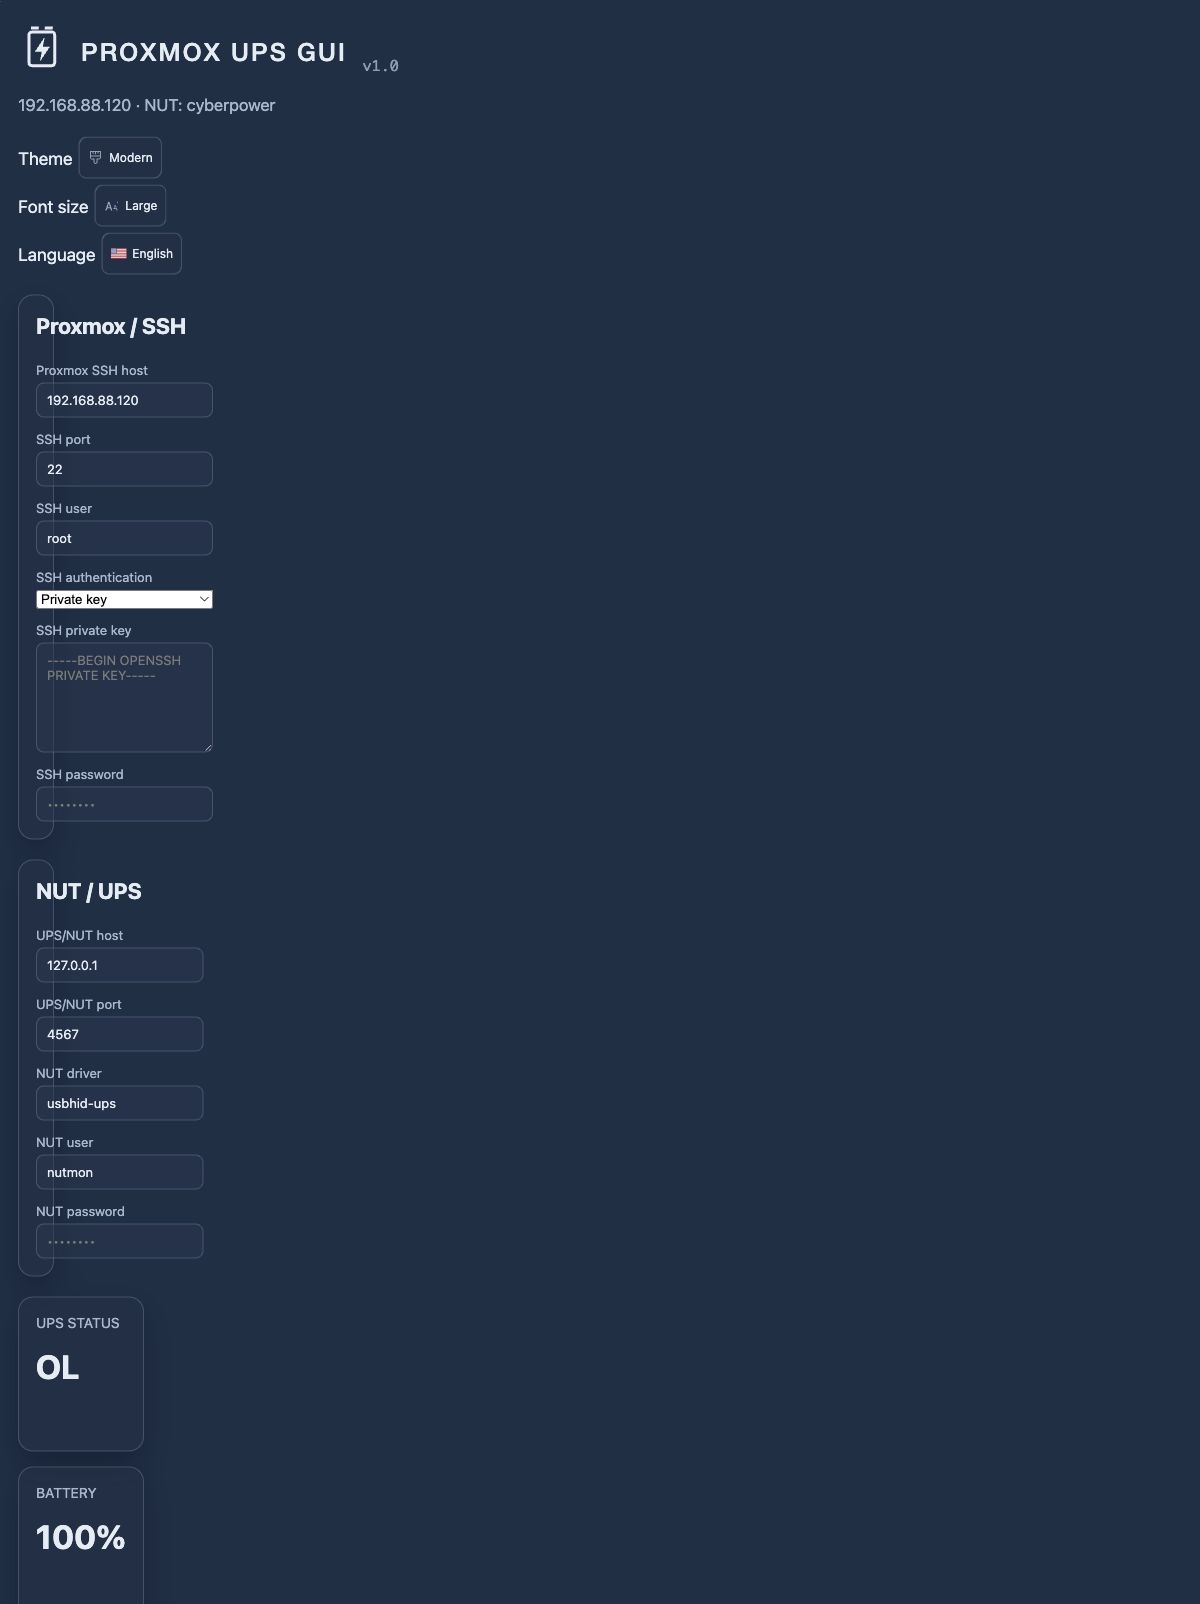
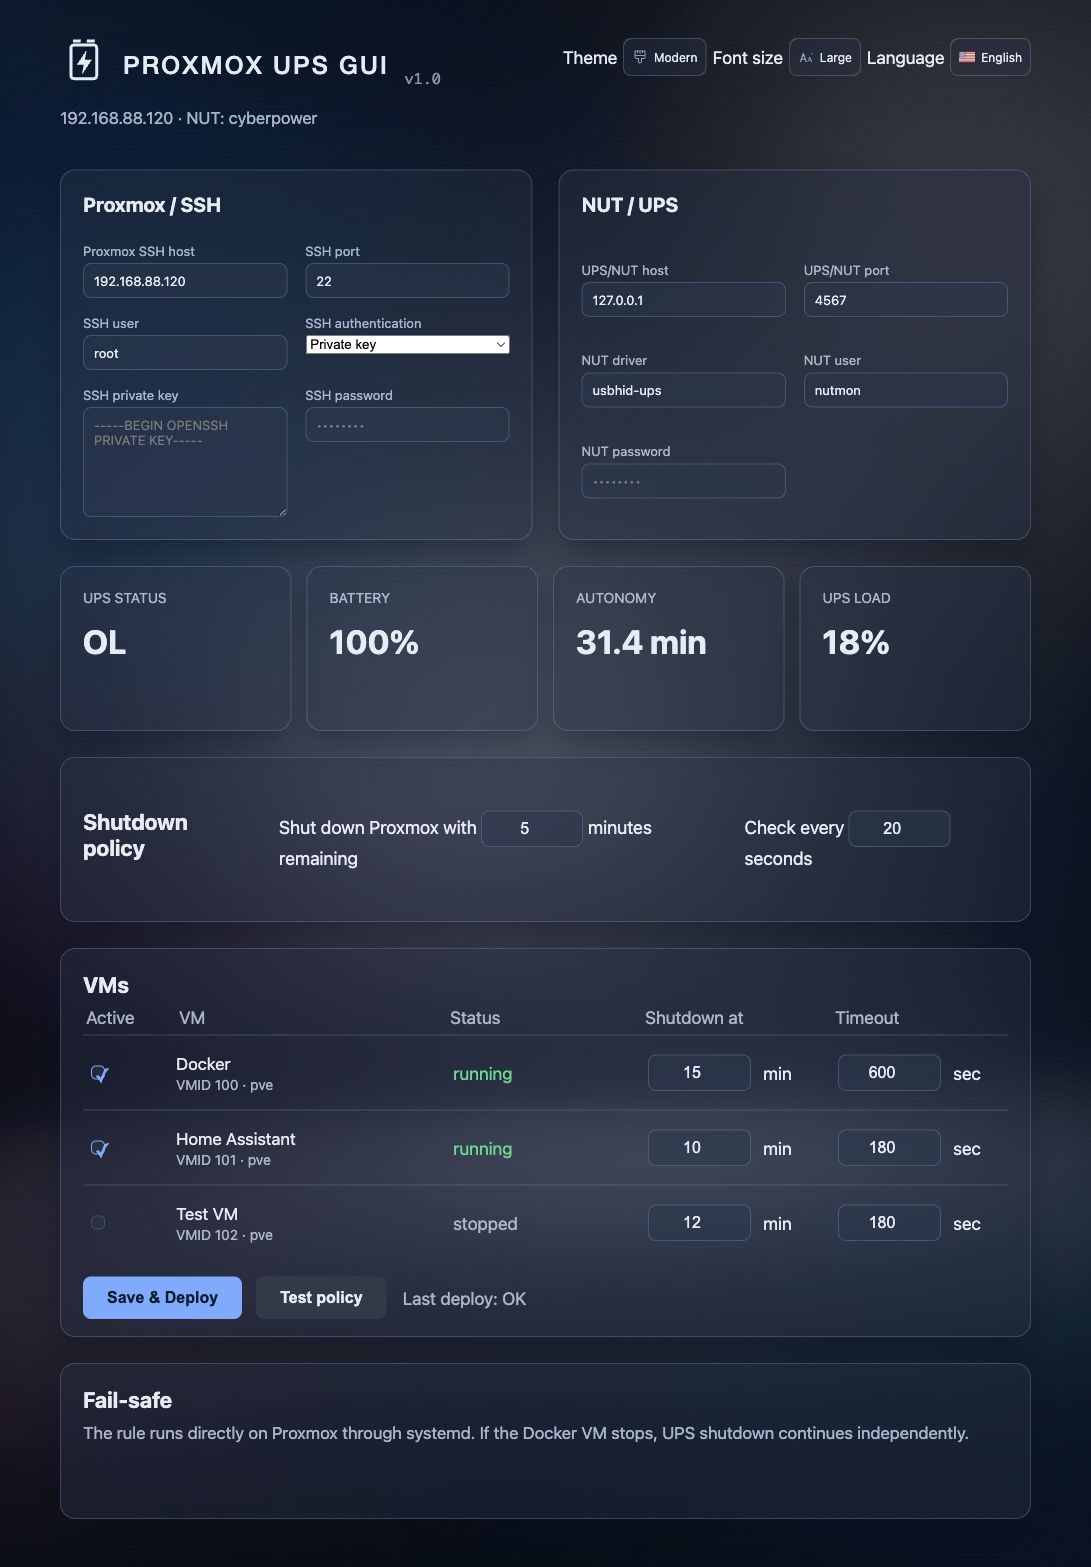
Improve live UPS dashboard spacing

diff --git a/templates/index.html b/templates/index.html
@@ -7,11 +7,26 @@
   <style>
     :root{--ups-accent:#73a7ff;--ups-green:#35d98b}.dashboard-container{max-width:1340px;margin:0 auto;padding:30px 52px 40px}.section{margin-top:20px}.ups-card{background:var(--card);border:1px solid var(--border);border-radius:15px;padding:17px;box-shadow:var(--glass-shadow,var(--shadow))}.ups-connection{display:grid;grid-template-columns:repeat(4,1fr);gap:14px}.ups-connection h2{grid-column:1/-1}.ups-connection label{display:flex;flex-direction:column;gap:5px;color:var(--muted);font-size:13px}.ups-connection input,.ups-connection textarea{background:var(--card-strong);border:1px solid var(--border);border-radius:8px;color:var(--text);padding:9px 10px;font:inherit}.ups-connection textarea{min-height:90px;resize:vertical}.ups-stats{display:grid;grid-template-columns:repeat(4,1fr);gap:15px}.ups-stat{height:119px}.ups-label{font-size:14px;color:var(--muted);text-transform:uppercase}.ups-value{font-size:33px;font-weight:700;margin-top:16px}.ups-policy{display:flex;align-items:center;gap:34px;min-height:119px}.ups-policy h2{margin-right:auto}.ups-policy p{margin:0;font-size:18px}.ups-input{width:76px;background:var(--card-strong);border:1px solid var(--border);border-radius:8px;color:var(--text);font-size:16px;padding:8px 12px;text-align:center}.ups-vm-card{padding:16px 17px 12px}.ups-card h2{font-size:22px;margin:0 0 10px}.ups-table-head,.ups-vm-row{display:grid;grid-template-columns:78px 1.6fr 180px 175px 170px;gap:15px;align-items:center}.ups-table-head{color:var(--muted);padding:0 3px 7px;border-bottom:1px solid var(--table-border,var(--border))}.ups-vm-row{min-height:74px;border-bottom:1px solid var(--table-border,var(--border))}.ups-vm-row:last-of-type{border-bottom:0}.ups-vm-name{font-size:17px}.ups-vm-meta{color:var(--muted);font-size:14px;margin-top:3px}.ups-status.running{color:var(--ups-green)}.ups-status.stopped{color:var(--muted)}.ups-check{appearance:none;width:22px;height:22px;border:1px solid #3d4655;border-radius:5px;background:var(--card-strong);position:relative;margin-left:8px}.ups-check:checked{border-color:var(--ups-accent)}.ups-check:checked:after{content:"✓";position:absolute;color:var(--ups-accent);font-size:20px;left:3px;top:-3px}.ups-field{display:flex;align-items:center;gap:12px}.ups-field .ups-input{width:77px}.ups-actions{display:flex;align-items:center;gap:14px;padding-top:17px}.ups-actions button{border:0;border-radius:8px;padding:12px 24px;font-size:16px;font-weight:700;cursor:pointer;background:#27303f;color:var(--text)}.ups-actions button.primary{background:var(--ups-accent);color:#071426}.ups-actions button:disabled{opacity:.6;cursor:wait}.ups-result{color:var(--muted);margin-left:2px}.ups-notice{min-height:94px}.ups-notice p{color:var(--muted);font-size:17px;margin:0}@media(max-width:900px){.dashboard-container{padding:24px 18px}.ups-connection,.ups-stats{grid-template-columns:repeat(2,1fr)}.ups-table-head{display:none}.ups-vm-row{grid-template-columns:42px 1fr 130px 140px;gap:8px}.ups-vm-row>.timeout{grid-column:3}.ups-vm-row>.ups-status{grid-column:2}.ups-policy{flex-wrap:wrap;gap:14px}}@media(max-width:600px){.ups-connection,.ups-stats{grid-template-columns:1fr}.ups-vm-row{grid-template-columns:32px 1fr}.ups-vm-row>.ups-status,.ups-vm-row>.schedule,.ups-vm-row>.timeout{grid-column:2}.ups-actions{flex-wrap:wrap}}
   </style>
+  <style>
+    body.ups-app{max-width:none;margin:0 auto;padding:38px 60px 48px;box-sizing:border-box;overflow-x:hidden}
+    body.ups-app .ups-connections{display:grid;grid-template-columns:repeat(2,minmax(0,1fr));gap:26px;margin-top:30px}
+    body.ups-app .ups-connections .ups-section{margin-top:0}
+    body.ups-app .ups-card{padding:22px}
+    body.ups-app .ups-connection{min-width:0;grid-template-columns:repeat(2,minmax(0,1fr));gap:17px 18px}
+    body.ups-app .ups-connection h2{font-size:20px}
+    body.ups-app .ups-connection textarea{grid-column:1/-1}
+    body.ups-app > .ups-section{margin-top:26px}
+    body.ups-app .ups-stats{margin-top:26px}
+    body.ups-app .ups-vm-card{padding:22px 22px 17px}
+    body.ups-app .ups-notice{min-height:110px}
+    @media(max-width:900px){body.ups-app{padding:28px 18px 36px}body.ups-app .ups-connections{grid-template-columns:1fr;gap:20px}body.ups-app .ups-connection{gap:14px}}
+  </style>
 </head>
-<body class="dashboard-container">
+<body class="ups-app">
   <header class="topbar" data-mikrotik-header-root data-brand="nut" data-brand-text="Proxmox UPS GUI" data-brand-version="v1.0" data-subtitle="192.168.88.120 · NUT: cyberpower"></header>
 
-  <section class="ups-card ups-connection section">
+  <div class="ups-connections">
+  <section class="ups-card ups-connection ups-section">
     <h2 data-i18n="proxmoxConnection">Proxmox / SSH</h2>
     <label><span data-i18n="sshHost">Proxmox SSH host</span><input id="ssh-host" value="192.168.88.120"></label>
     <label><span data-i18n="sshPort">SSH port</span><input id="ssh-port" type="number" min="1" max="65535" value="22"></label>
@@ -21,7 +36,7 @@
     <label><span data-i18n="sshPassword">SSH password</span><input id="ssh-password" type="password" autocomplete="new-password" placeholder="••••••••"></label>
   </section>
 
-  <section class="ups-card ups-connection section">
+  <section class="ups-card ups-connection ups-section">
     <h2 data-i18n="nutConnection">NUT / UPS</h2>
     <label><span data-i18n="upsHost">UPS/NUT host</span><input id="ups-host" value="127.0.0.1"></label>
     <label><span data-i18n="upsPort">UPS/NUT port</span><input id="ups-port" type="number" min="1" max="65535" value="3493"></label>
@@ -29,11 +44,12 @@
     <label><span data-i18n="nutUser">NUT user</span><input id="nut-user" value="nutmon"></label>
     <label><span data-i18n="nutPassword">NUT password</span><input id="nut-password" type="password" autocomplete="new-password" placeholder="••••••••"></label>
   </section>
+  </div>
 
-  <section class="ups-stats section"><div class="ups-card ups-stat"><div class="ups-label" data-i18n="upsStatus">UPS status</div><div class="ups-value">OL</div></div><div class="ups-card ups-stat"><div class="ups-label" data-i18n="battery">Battery</div><div class="ups-value">100%</div></div><div class="ups-card ups-stat"><div class="ups-label" data-i18n="autonomy">Autonomy</div><div class="ups-value">31.4 min</div></div><div class="ups-card ups-stat"><div class="ups-label" data-i18n="loadUps">UPS load</div><div class="ups-value">18%</div></div></section>
-  <section class="ups-card ups-policy section"><h2 data-i18n="shutdownPolicy">Shutdown policy</h2><p><span data-i18n="shutdownWith">Shut down Proxmox with</span> <input class="ups-input" id="battery-minutes" type="number" min="0" value="5"> <span data-i18n="minutesRemaining">minutes remaining</span></p><p><span data-i18n="checkEvery">Check every</span> <input class="ups-input" id="poll-seconds" type="number" min="1" value="20"> <span data-i18n="seconds">seconds</span></p></section>
-  <section class="ups-card ups-vm-card section"><h2 data-i18n="vms">VMs</h2><div class="ups-table-head"><div data-i18n="active">Active</div><div data-i18n="vm">VM</div><div data-i18n="status">Status</div><div data-i18n="shutdownAt">Shutdown at</div><div data-i18n="timeout">Timeout</div></div><div id="vm-list"></div><div class="ups-actions"><button class="primary" id="deploy" data-i18n="saveDeploy">Save &amp; Deploy</button><button id="test" data-i18n="testPolicy">Test policy</button><span class="ups-result" id="result" data-i18n="lastDeploy">Last deploy: OK</span></div></section>
-  <section class="ups-card ups-notice section"><h2 data-i18n="failSafe">Fail-safe</h2><p data-i18n="failSafeText">The rule runs directly on Proxmox through systemd. If the Docker VM stops, UPS shutdown continues independently.</p></section>
+  <section class="ups-stats ups-section"><div class="ups-card ups-stat"><div class="ups-label" data-i18n="upsStatus">UPS status</div><div class="ups-value">OL</div></div><div class="ups-card ups-stat"><div class="ups-label" data-i18n="battery">Battery</div><div class="ups-value">100%</div></div><div class="ups-card ups-stat"><div class="ups-label" data-i18n="autonomy">Autonomy</div><div class="ups-value">31.4 min</div></div><div class="ups-card ups-stat"><div class="ups-label" data-i18n="loadUps">UPS load</div><div class="ups-value">18%</div></div></section>
+  <section class="ups-card ups-policy ups-section"><h2 data-i18n="shutdownPolicy">Shutdown policy</h2><p><span data-i18n="shutdownWith">Shut down Proxmox with</span> <input class="ups-input" id="battery-minutes" type="number" min="0" value="5"> <span data-i18n="minutesRemaining">minutes remaining</span></p><p><span data-i18n="checkEvery">Check every</span> <input class="ups-input" id="poll-seconds" type="number" min="1" value="20"> <span data-i18n="seconds">seconds</span></p></section>
+  <section class="ups-card ups-vm-card ups-section"><h2 data-i18n="vms">VMs</h2><div class="ups-table-head"><div data-i18n="active">Active</div><div data-i18n="vm">VM</div><div data-i18n="status">Status</div><div data-i18n="shutdownAt">Shutdown at</div><div data-i18n="timeout">Timeout</div></div><div id="vm-list"></div><div class="ups-actions"><button class="primary" id="deploy" data-i18n="saveDeploy">Save &amp; Deploy</button><button id="test" data-i18n="testPolicy">Test policy</button><span class="ups-result" id="result" data-i18n="lastDeploy">Last deploy: OK</span></div></section>
+  <section class="ups-card ups-notice ups-section"><h2 data-i18n="failSafe">Fail-safe</h2><p data-i18n="failSafeText">The rule runs directly on Proxmox through systemd. If the Docker VM stops, UPS shutdown continues independently.</p></section>
 
   <script src="/common/header.js"></script>
   <script>
